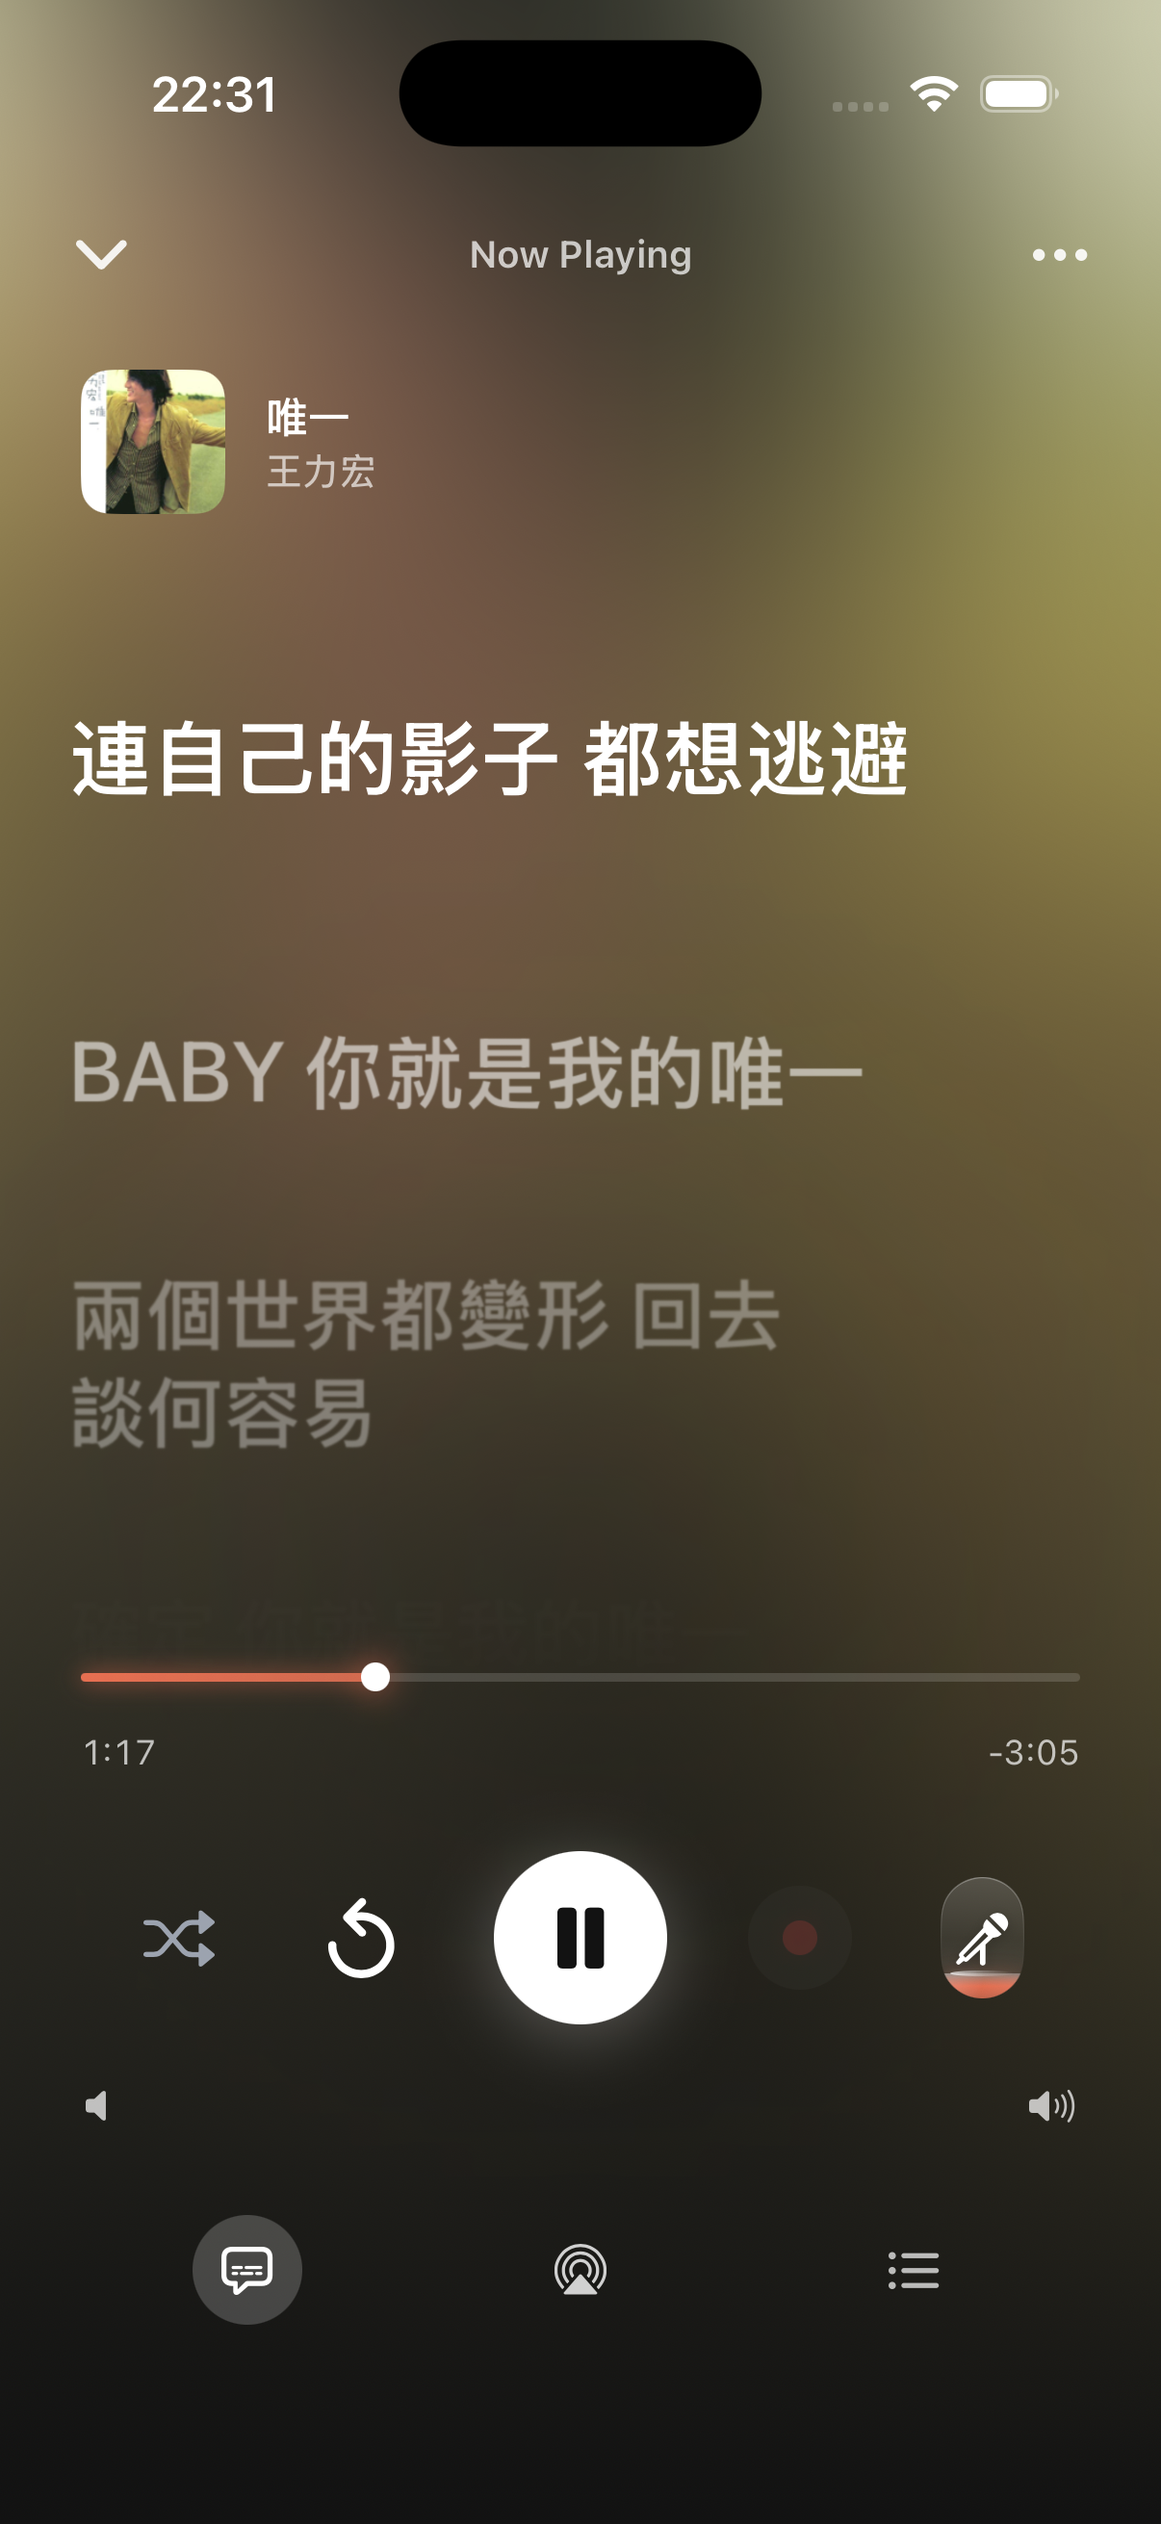
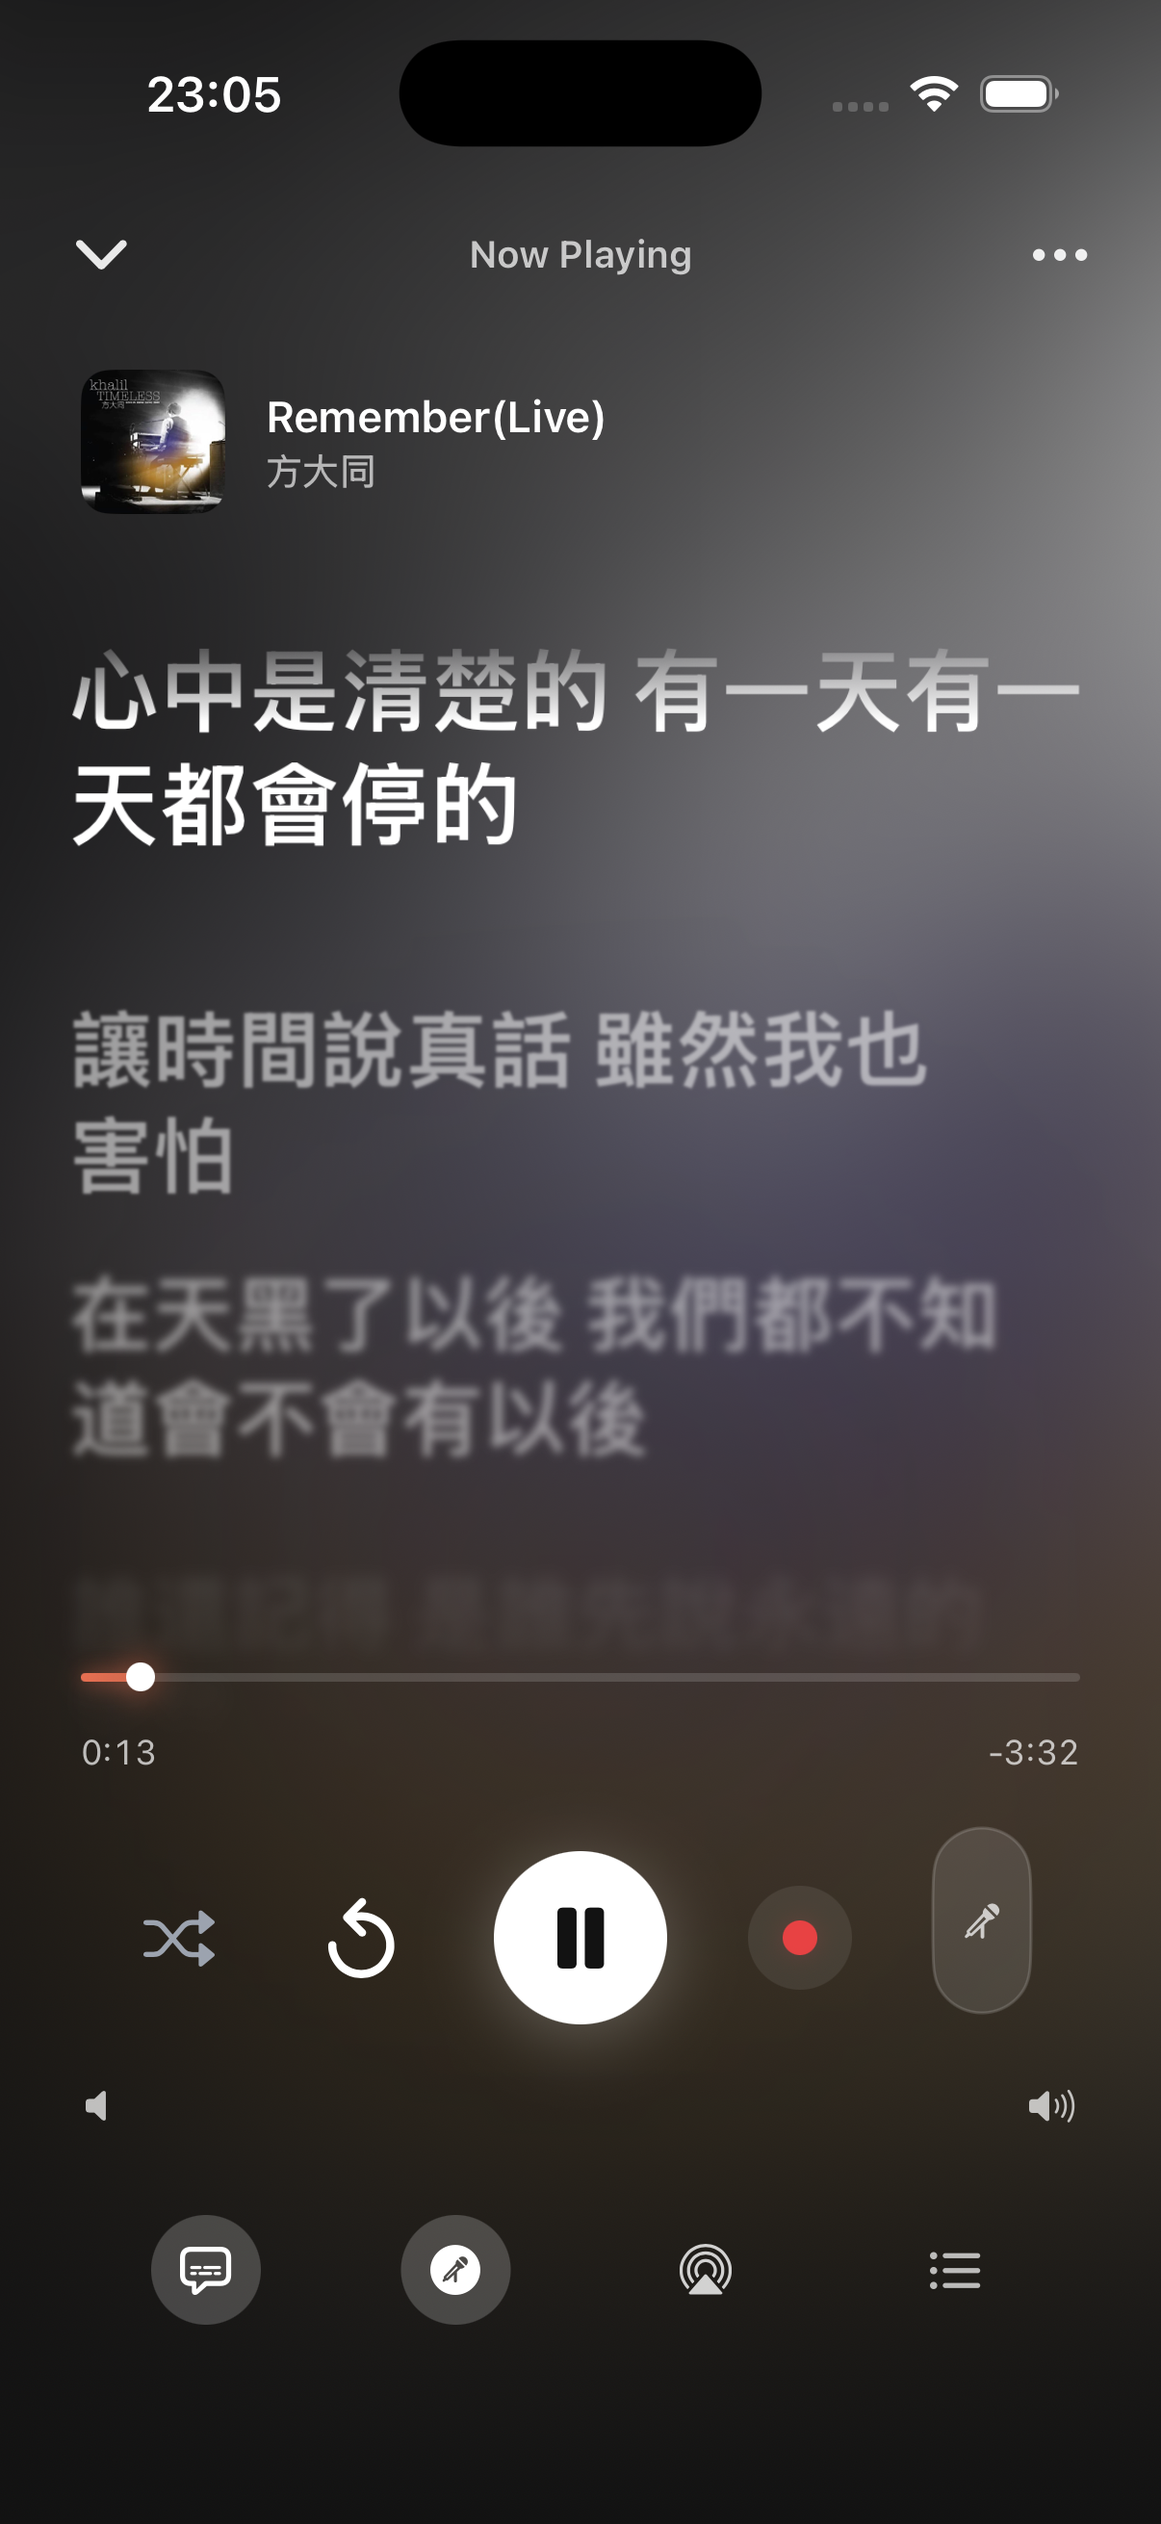
Update site for TuneSync 1.0.7

diff --git a/src/app/[locale]/features/page.tsx b/src/app/[locale]/features/page.tsx
@@ -1,5 +1,5 @@
 import { getTranslations, setRequestLocale } from "next-intl/server";
-import { Server, Music4, Mic, Disc3, Wand2, TrendingUp } from "lucide-react";
+import { Server, Music4, Mic, AudioWaveform, Disc3, Wand2, TrendingUp } from "lucide-react";
 import FeatureRow from "../../../components/marketing/FeatureRow";
 import CTASection from "../../../components/marketing/CTASection";
 
@@ -22,7 +22,7 @@ export default async function FeaturesPage({
       <FeatureRow
         eyebrow={t("library.title")} title={t("library.featureTitle")} description={t("library.featureDesc")}
         bullets={[t("library.featureB1"),t("library.featureB2"),t("library.featureB3"),t("library.featureB4")]}
-        screenshot="library.png" screenshotLabel={t("library.screenshot")} icon={Server}
+        screenshot={`${locale}/library.png`} screenshotLabel={t("library.screenshot")} icon={Server}
       />
       <FeatureRow
         eyebrow={t("player.title")} title={t("player.featureTitle")} description={t("player.featureDesc")}
@@ -35,19 +35,24 @@ export default async function FeaturesPage({
         screenshot="karaoke.png" screenshotLabel={t("karaoke.screenshot")} icon={Mic}
       />
       <FeatureRow
+        eyebrow={t("recordingStudio.title")} title={t("recordingStudio.featureTitle")} description={t("recordingStudio.featureDesc")}
+        bullets={[t("recordingStudio.featureB1"),t("recordingStudio.featureB2"),t("recordingStudio.featureB3"),t("recordingStudio.featureB4")]}
+        screenshot={`${locale}/recording-studio.png`} screenshotLabel={t("recordingStudio.screenshot")} icon={AudioWaveform} reverse
+      />
+      <FeatureRow
         eyebrow={t("ai.title")} title={t("ai.featureTitle")} description={t("ai.featureDesc")}
         bullets={[t("ai.featureB1"),t("ai.featureB2"),t("ai.featureB3"),t("ai.featureB4")]}
-        screenshot="ai-dj.png" screenshotLabel={t("ai.screenshot")} icon={Disc3} reverse
+        screenshot="ai-dj.png" screenshotLabel={t("ai.screenshot")} icon={Disc3}
       />
       <FeatureRow
         eyebrow={t("metadata.title")} title={t("metadata.featureTitle")} description={t("metadata.featureDesc")}
         bullets={[t("metadata.featureB1"),t("metadata.featureB2"),t("metadata.featureB3")]}
-        screenshot="metadata.png" screenshotLabel={t("metadata.screenshot")} icon={Wand2}
+        screenshot="metadata.png" screenshotLabel={t("metadata.screenshot")} icon={Wand2} reverse
       />
       <FeatureRow
         eyebrow={t("discovery.title")} title={t("discovery.featureTitle")} description={t("discovery.featureDesc")}
         bullets={[t("discovery.featureB1"),t("discovery.featureB2"),t("discovery.featureB3")]}
-        screenshot="discovery.png" screenshotLabel={t("discovery.screenshot")} icon={TrendingUp} reverse
+        screenshot={`${locale}/search.png`} screenshotLabel={t("discovery.screenshot")} icon={TrendingUp}
       />
       <CTASection />
     </>

diff --git a/src/app/[locale]/page.tsx b/src/app/[locale]/page.tsx
@@ -1,5 +1,5 @@
 import { getTranslations, setRequestLocale } from "next-intl/server";
-import { Server, Music4, Mic, Sparkles, Disc3, TrendingUp } from "lucide-react";
+import { Server, Music4, Mic, AudioWaveform, Disc3, TrendingUp } from "lucide-react";
 import Hero from "../../components/marketing/Hero";
 import IntroSection from "../../components/marketing/IntroSection";
 import FeatureRow from "../../components/marketing/FeatureRow";
@@ -29,7 +29,7 @@ export default async function HomePage({
         title={f("library.featureTitle")}
         description={f("library.featureDesc")}
         bullets={[f("library.featureB1"), f("library.featureB2"), f("library.featureB3"), f("library.featureB4")]}
-        screenshot="library.png"
+        screenshot={`${locale}/library.png`}
         screenshotLabel={f("library.screenshot")}
         icon={Server}
       />
@@ -53,6 +53,21 @@ export default async function HomePage({
         icon={Mic}
       />
       <FeatureRow
+        eyebrow={f("recordingStudio.title")}
+        title={f("recordingStudio.featureTitle")}
+        description={f("recordingStudio.featureDesc")}
+        bullets={[
+          f("recordingStudio.featureB1"),
+          f("recordingStudio.featureB2"),
+          f("recordingStudio.featureB3"),
+          f("recordingStudio.featureB4"),
+        ]}
+        screenshot={`${locale}/recording-studio.png`}
+        screenshotLabel={f("recordingStudio.screenshot")}
+        icon={AudioWaveform}
+        reverse
+      />
+      <FeatureRow
         eyebrow={f("ai.title")}
         title={f("ai.featureTitle")}
         description={f("ai.featureDesc")}
@@ -60,7 +75,6 @@ export default async function HomePage({
         screenshot="ai-dj.png"
         screenshotLabel={f("ai.screenshot")}
         icon={Disc3}
-        reverse
       />
       <FeatureRow
         eyebrow={f("discovery.title")}
@@ -70,6 +84,7 @@ export default async function HomePage({
         screenshot="discovery.png"
         screenshotLabel={f("discovery.screenshot")}
         icon={TrendingUp}
+        reverse
       />
 
       <div className="hr-soft mx-auto max-w-5xl" />

diff --git a/src/app/[locale]/docs/recording-studio/page.tsx b/src/app/[locale]/docs/recording-studio/page.tsx
@@ -1,0 +1,66 @@
+import { getTranslations } from "next-intl/server";
+import DocsArticle from "../../../../components/docs/DocsArticle";
+import {
+  Callout,
+  ScreenshotPlaceholder,
+  Steps,
+  Step,
+} from "../../../../components/docs/DocContent";
+import { enableStaticLocale } from "../../lib";
+
+export default async function RecordingStudioPage({
+  params,
+}: {
+  params: Promise<{ locale: string }>;
+}) {
+  const { locale } = await params;
+  enableStaticLocale(locale);
+  const t = await getTranslations("docs.recordingStudio");
+
+  return (
+    <DocsArticle path="/docs/recording-studio">
+      <h1>{t("title")}</h1>
+      <p className="text-lg text-[var(--fg-muted)]">{t("lead")}</p>
+      <ScreenshotPlaceholder
+        label={t("screenshot")}
+        screenshot={`${locale}/recording-studio.png`}
+        tint="#f75e3c"
+      />
+
+      <h2>{t("open.title")}</h2>
+      <p>{t("open.body")}</p>
+
+      <h2>{t("workflow.title")}</h2>
+      <Steps>
+        <Step index={1} title={t("workflow.step1.title")}>
+          <p>{t("workflow.step1.body")}</p>
+        </Step>
+        <Step index={2} title={t("workflow.step2.title")}>
+          <p>{t("workflow.step2.body")}</p>
+        </Step>
+        <Step index={3} title={t("workflow.step3.title")}>
+          <p>{t("workflow.step3.body")}</p>
+        </Step>
+        <Step index={4} title={t("workflow.step4.title")}>
+          <p>{t("workflow.step4.body")}</p>
+        </Step>
+      </Steps>
+
+      <h2>{t("controls.title")}</h2>
+      <ul>
+        <li>{t("controls.timeline")}</li>
+        <li>{t("controls.preview")}</li>
+        <li>{t("controls.history")}</li>
+        <li>{t("controls.share")}</li>
+      </ul>
+
+      <Callout variant="success" title={t("nondestructive.title")}>
+        <p>{t("nondestructive.body")}</p>
+      </Callout>
+
+      <Callout variant="info" title={t("format.title")}>
+        <p>{t("format.body")}</p>
+      </Callout>
+    </DocsArticle>
+  );
+}

diff --git a/src/components/marketing/Hero.tsx b/src/components/marketing/Hero.tsx
@@ -1,6 +1,6 @@
 "use client";
 
-import { useTranslations } from "next-intl";
+import { useLocale, useTranslations } from "next-intl";
 import { Link } from "../../../i18n/routing";
 import { ChevronRight } from "lucide-react";
 import PhoneMockup from "./PhoneMockup";
@@ -9,6 +9,7 @@ import Reveal from "./Reveal";
 
 export default function Hero() {
   const t = useTranslations("home");
+  const locale = useLocale();
 
   return (
     <section className="relative overflow-hidden">
@@ -41,7 +42,11 @@ export default function Hero() {
         <Reveal delay={240} className="relative mt-16 w-full max-w-xs">
           <div className="relative float-slow">
             <span className="glow-halo" aria-hidden />
-            <PhoneMockup screenshot="home.png" alt={t("phoneLabel")} label={t("phoneLabel")} />
+            <PhoneMockup
+              screenshot={`${locale}/home.png`}
+              alt={t("phoneLabel")}
+              label={t("phoneLabel")}
+            />
           </div>
         </Reveal>
       </div>

diff --git a/src/app/[locale]/layout.tsx b/src/app/[locale]/layout.tsx
@@ -31,12 +31,26 @@ export async function generateMetadata({
       template: `%s · ${site}`,
     },
     description: t.description,
-    metadataBase: new URL("https://tunesync.app"),
+    metadataBase: new URL("https://vibeforge2014.github.io"),
     openGraph: {
       title: t.title,
       description: t.description,
       siteName: site,
       type: "website",
+      images: [
+        {
+          url: "/TuneSync-Site/og.png",
+          width: 1200,
+          height: 630,
+          alt: `${site} — ${messages.common.tagline}`,
+        },
+      ],
+    },
+    twitter: {
+      card: "summary_large_image",
+      title: t.title,
+      description: t.description,
+      images: ["/TuneSync-Site/og.png"],
     },
   };
 }

diff --git a/src/components/marketing/FeatureGrid.tsx b/src/components/marketing/FeatureGrid.tsx
@@ -1,13 +1,14 @@
 "use client";
 
 import { useTranslations } from "next-intl";
-import { Server, Music4, Mic, Sparkles, Wand2, TrendingUp, type LucideIcon } from "lucide-react";
+import { Server, Music4, Mic, AudioWaveform, Sparkles, Wand2, TrendingUp, type LucideIcon } from "lucide-react";
 import Reveal from "./Reveal";
 
 const ITEMS: { key: string; icon: LucideIcon }[] = [
   { key: "library", icon: Server },
   { key: "player", icon: Music4 },
   { key: "karaoke", icon: Mic },
+  { key: "recordingStudio", icon: AudioWaveform },
   { key: "ai", icon: Sparkles },
   { key: "metadata", icon: Wand2 },
   { key: "discovery", icon: TrendingUp },

diff --git a/src/components/docs/nav.ts b/src/components/docs/nav.ts
@@ -23,6 +23,7 @@ export const DOC_NAV: DocNavGroup[] = [
 			{ href: '/docs/player', labelKey: 'docsNav.player' },
 			{ href: '/docs/lyrics', labelKey: 'docsNav.lyrics' },
 			{ href: '/docs/karaoke', labelKey: 'docsNav.karaoke' },
+			{ href: '/docs/recording-studio', labelKey: 'docsNav.recordingStudio' },
 			{ href: '/docs/ai', labelKey: 'docsNav.ai' },
 			{ href: '/docs/metadata', labelKey: 'docsNav.metadata' },
 			{ href: '/docs/discovery', labelKey: 'docsNav.discovery' },

diff --git a/src/app/[locale]/docs/karaoke/page.tsx b/src/app/[locale]/docs/karaoke/page.tsx
@@ -61,6 +61,14 @@ export default async function KaraokePage({
       <h2>{t("recordings.title")}</h2>
       <p>{t("recordings.body")}</p>
 
+      <Callout variant="tip" title={t("studio.title")}>
+        <p>{t("studio.body")}</p>
+      </Callout>
+
+      <Callout variant="info" title={t("compatibility.title")}>
+        <p>{t("compatibility.body")}</p>
+      </Callout>
+
       <h2>{t("live.title")}</h2>
       <p>{t("live.body")}</p>
     </DocsArticle>

diff --git a/src/app/[locale]/docs/settings/page.tsx b/src/app/[locale]/docs/settings/page.tsx
@@ -19,7 +19,7 @@ export default async function SettingsPage({ params }: { params: Promise<{ local
 			<ScreenshotPlaceholder
 				label={t('shotSettings')}
 				hint={t('shotHint')}
-				screenshot="settings.png"
+				screenshot={`${locale}/settings.png`}
 				tint="#64748b"
 			/>
 

diff --git a/src/app/[locale]/docs/discovery/page.tsx b/src/app/[locale]/docs/discovery/page.tsx
@@ -19,7 +19,7 @@ export default async function DiscoveryPage({
       <ScreenshotPlaceholder
         label={t("shotDiscovery")}
         hint={t("shotHint")}
-        screenshot="discovery.png"
+        screenshot={`${locale}/search.png`}
         tint="#ec4899"
       />
 

diff --git a/src/app/[locale]/docs/library/page.tsx b/src/app/[locale]/docs/library/page.tsx
@@ -19,7 +19,7 @@ export default async function LibraryPage({
       <ScreenshotPlaceholder
         label={t("shotLibrary")}
         hint={t("shotHint")}
-        screenshot="library.png"
+        screenshot={`${locale}/library.png`}
         tint="#0ea5e9"
       />
 

diff --git a/IMAGES.md b/IMAGES.md
@@ -16,6 +16,11 @@ Complete inventory of every image the site depends on, where it lives on disk, w
 
 **Replacement tips:** square PNG with the full-bleed TuneSync mark (no inner padding), 1024×1024 minimum. The component applies its own corner radius and ring, so the source file should be flat-cornered.
 
+## Social preview
+
+`public/og.png` is the 1200×630 Open Graph / X card for TuneSync 1.0.7.
+It uses the current coral icon treatment and Recording Studio waveform motif.
+
 ---
 
 ## Screenshots
@@ -28,15 +33,17 @@ All screenshots live in `public/screenshots/`. They are referenced by bare filen
 
 | File                                          | Size      | Where it appears                                                                                                                         |
 | --------------------------------------------- | --------- | ---------------------------------------------------------------------------------------------------------------------------------------- |
-| `public/screenshots/home.png`                 | 1206×2622 | Homepage hero (`Hero.tsx` → `PhoneMockup`). Highest-visibility shot.                                                                     |
-| `public/screenshots/library.png`              | 1206×2622 | Homepage showcase row 1 (`[locale]/page.tsx`), `/features` Library row (`features/page.tsx`), `/docs/library` (`docs/library/page.tsx`). |
+| `public/screenshots/{locale}/home.png`        | 1206×2622 | Homepage hero (`Hero.tsx` → `PhoneMockup`). Highest-visibility shot.                                                                     |
+| `public/screenshots/{locale}/library.png`     | 1206×2622 | Homepage showcase row 1 (`[locale]/page.tsx`), `/features` Library row (`features/page.tsx`), `/docs/library` (`docs/library/page.tsx`). |
+| `public/screenshots/{locale}/search.png`      | 1206×2622 | `/features` Search/Discovery row and `/docs/discovery`.                                                                                   |
+| `public/screenshots/{locale}/settings.png`    | 1206×2622 | `/docs/settings`.                                                                                                                        |
+| `public/screenshots/{locale}/recording-studio.png` | 1206×2622 | Homepage and `/features` Recording Studio rows, plus `/docs/recording-studio`.                                                     |
 | `public/screenshots/player-lyrics.png`        | 1206×2622 | Homepage showcase row 2, `/features` Playback row, `/docs/player`.                                                                       |
 | `public/screenshots/karaoke.png`              | 1206×2622 | Homepage showcase row 3, `/features` Karaoke row, `/docs/karaoke`.                                                                       |
 | `public/screenshots/ai-dj.png`                | 1206×2622 | Homepage showcase row 4, `/features` AI row, `/docs/ai`, AI section phone mockup (`AISection.tsx`).                                      |
 | `public/screenshots/metadata.png`             | 1206×2622 | `/features` Metadata row, `/docs/metadata`.                                                                                              |
-| `public/screenshots/discovery.png`            | 1206×2622 | Homepage showcase row 5, `/features` Discovery row, `/docs/discovery`.                                                                   |
+| `public/screenshots/discovery.png`            | 1206×2622 | Homepage discovery row.                                                                                                                  |
 | `public/screenshots/lyrics.png`               | 1206×2622 | `/docs/lyrics` only.                                                                                                                     |
-| `public/screenshots/settings.png`             | 1206×2622 | `/docs/settings` only.                                                                                                                   |
 | `public/screenshots/getting-started.png`      | 1206×2622 | `/docs/getting-started` only.                                                                                                            |
 | `public/screenshots/getting-started-dark.png` | 1206×2622 | **Currently unreferenced** — kept for a future dark-mode variant of the getting-started page. Safe to delete if unused.                  |
 
